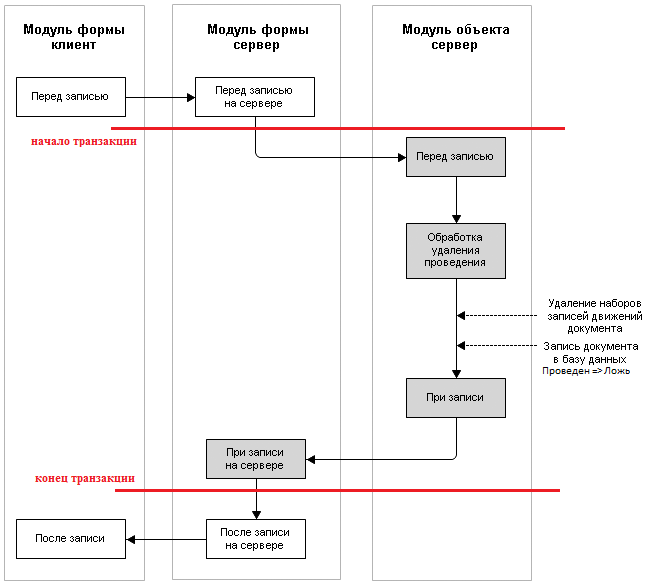
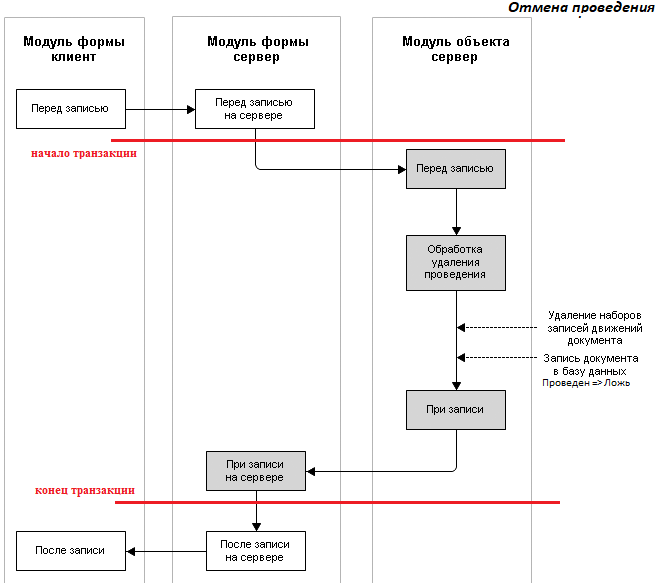
добавил заголовки в картинки

diff --git a/README.md b/README.md
@@ -4,7 +4,7 @@
 4. [ПодпискиНаСобытияОбъектовМетаданных.epf](#подпискинасобытияобъектовметаданныхepf)
 
 ## Последовательность событий при проведении документа:
-![alt text](https://github.com/kuzyara/Sequences-of-events-for-1C-objects/blob/master/ПоследовательностьСобытийДокумента_v1.1.png?raw=true)
+![alt text](https://github.com/kuzyara/Sequences-of-events-for-1C-objects/blob/master/ПоследовательностьСобытийДокументаПроведение_v1.1.png?raw=true)
 
 >**Про подписки:**
 >* Дополнение1: все подписки на события выполняются после стандартных обработчиков Объекта(не формы) и выполняются тоже только на сервере
@@ -15,7 +15,7 @@
 ![alt text](https://github.com/kuzyara/Sequences-of-events-for-1C-objects/blob/master/ПоследовательностьСобытийДокументаОтменаПроведения_v1.1.png)
 
 ## Последовательность событий при открытии формы:
-![alt text](https://github.com/kuzyara/Sequences-of-events-for-1C-objects/blob/master/FormSeqDiagram.png)
+![alt text](https://github.com/kuzyara/Sequences-of-events-for-1C-objects/blob/master/ПоследовательностьСобытийДокументаОткрытиеФормы.png)
 
 >* События ПриЧтенииНаСервере/ПриКопировании/ОбработкаЗаполнения возникают при открытии существующего/копировании/вводе нового соответственно.
 >* Активация модуля формы проверяется с помощью конструкции:
